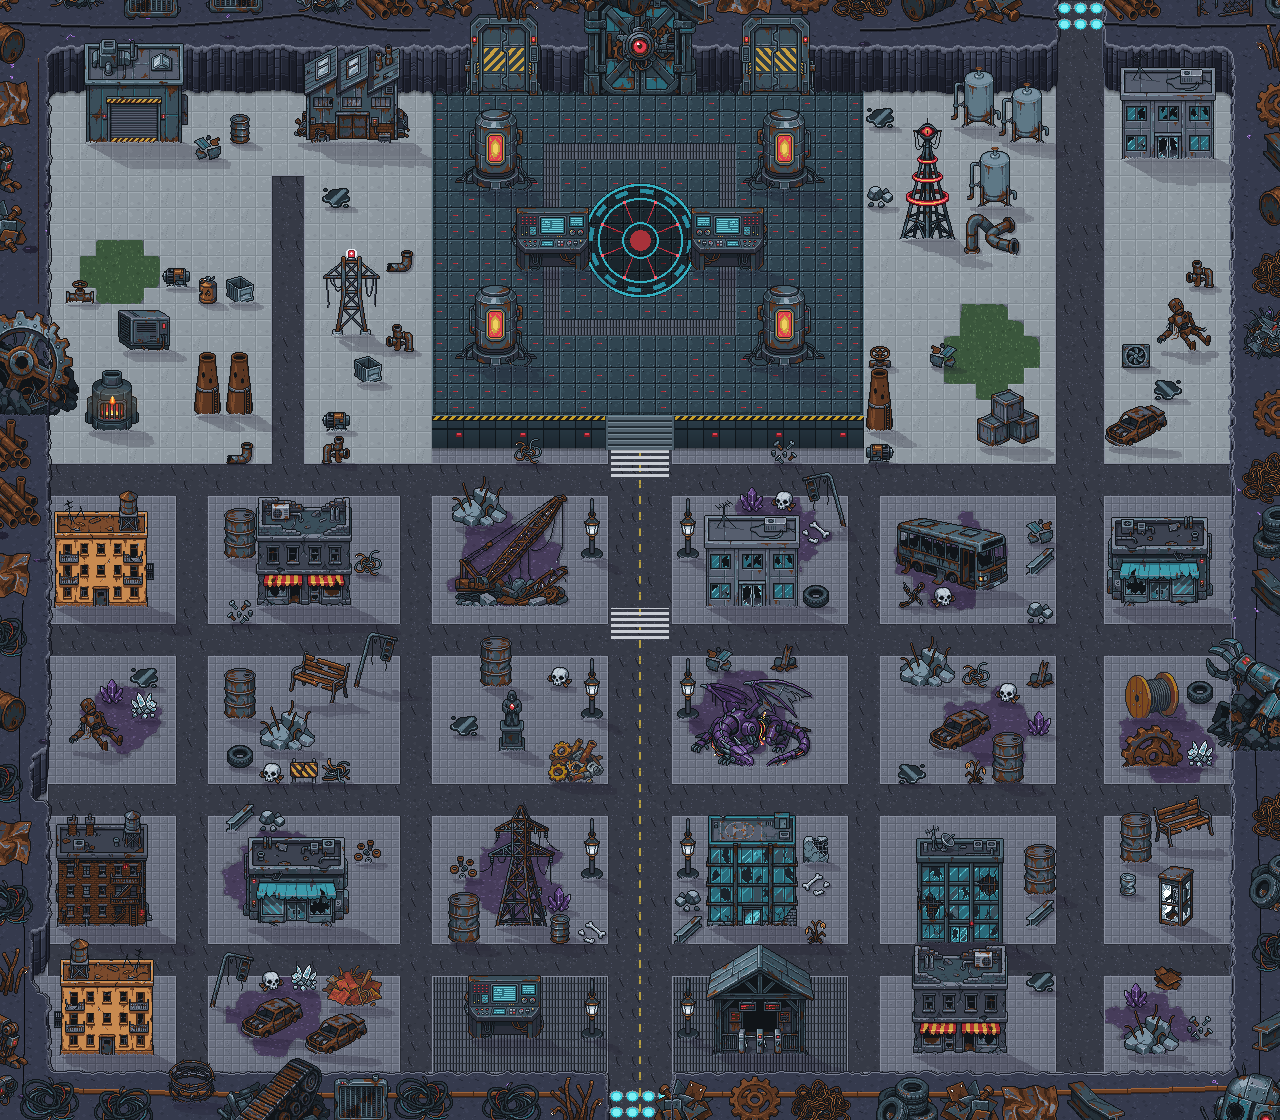
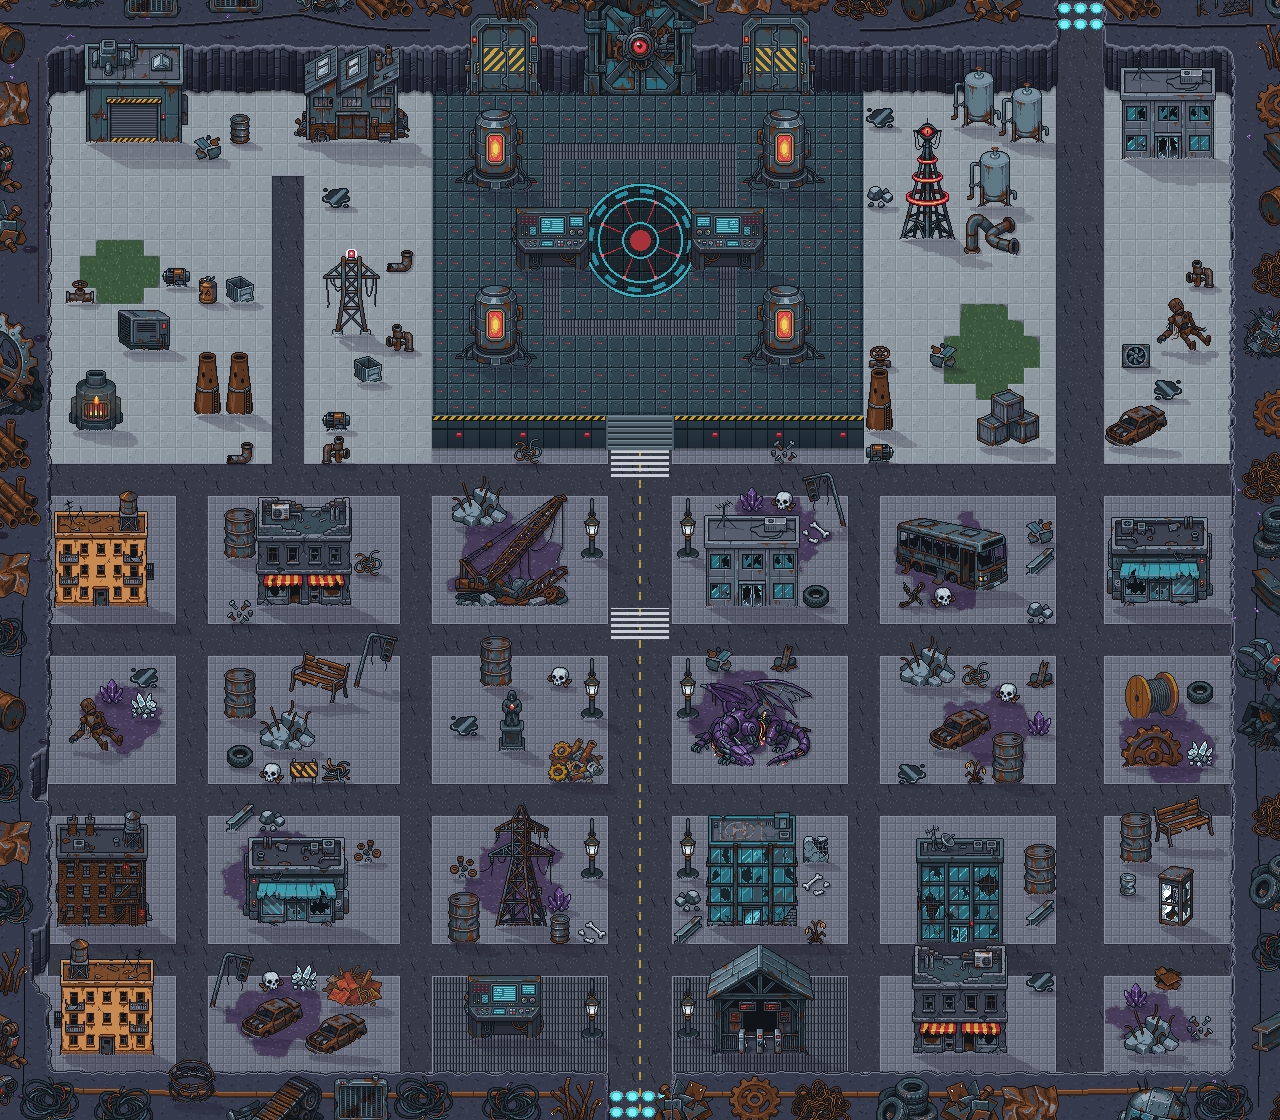
Karte 13: versunkene Maschinenteile ragen nie ueber die Bergkante (nur auf der Bergkuppe sichtbar)
Claude-Session: https://claude.ai/code/session_01SaoYHKhnro4LFcPJqjaPsq

diff --git a/tools/karte13_objekte.py b/tools/karte13_objekte.py
@@ -193,10 +193,22 @@ def main():
         objekte.append(o)
         belegen(datei, x, y)
         return o
-    fest_setzen('berg/00', 22, 26 * T, kein_schatten=True)                      # Zahnrad links, Kante am Kartenrand
-    fest_setzen('berg/01', 17 * T, Hp + 44, kein_schatten=True)                 # Panzerkette unten
-    fest_setzen('berg/02', Wp - 18, 47 * T, spiegeln=True, kein_schatten=True)  # Roboterarm rechts
-    fest_setzen('berg/03', Wp - 30, Hp + 52, kein_schatten=True, anim='rotlicht')   # Mech-Kopf unten rechts, rotes Auge
+    KUPPE = 44                                                    # Breite der Bergkuppe innerhalb der Karte (px)
+    def versunken(name, seite, pos, spiegeln=False, **extra):
+        """Maschinenteil im Fels: nur so weit sichtbar, wie die Bergkuppe reicht - ragt nie ueber die Kante."""
+        datei, h, zu, mitte = sprite(name, spiegeln)
+        hh, ww = alpha[datei].shape
+        if seite == 'links':
+            X, fuss = KUPPE - ww + mitte, pos
+        elif seite == 'rechts':
+            X, fuss = Wp - KUPPE + mitte, pos
+        else:                                                     # unten: Oberkante auf der Bergkuppe
+            X, fuss = pos, Hp - KUPPE + zu
+        return fest_setzen(name, X, fuss, spiegeln, **extra)
+    versunken('berg/00', 'links', 26 * T, kein_schatten=True)                    # Zahnrad links
+    versunken('berg/01', 'unten', 17 * T, kein_schatten=True)                    # Panzerkette unten
+    versunken('berg/02', 'rechts', 47 * T, spiegeln=True, kein_schatten=True)    # Roboterarm rechts
+    versunken('berg/03', 'unten', 72 * T, kein_schatten=True, anim='rotlicht')   # Mech-Kopf unten rechts, rotes Auge
     #    b) Schrottrand: vom Kartenrand angeschnitten, Tiefe wellenfoermig, ungleiche Abstaende (wie Karte 12)
     RAND = ['rand/%02d' % i for i in range(16)]
     GEW = [2, 3, 2, 3, 2, 2, 1, 3, 2, 2, 1, 3, 1, 1, 2, 1]
